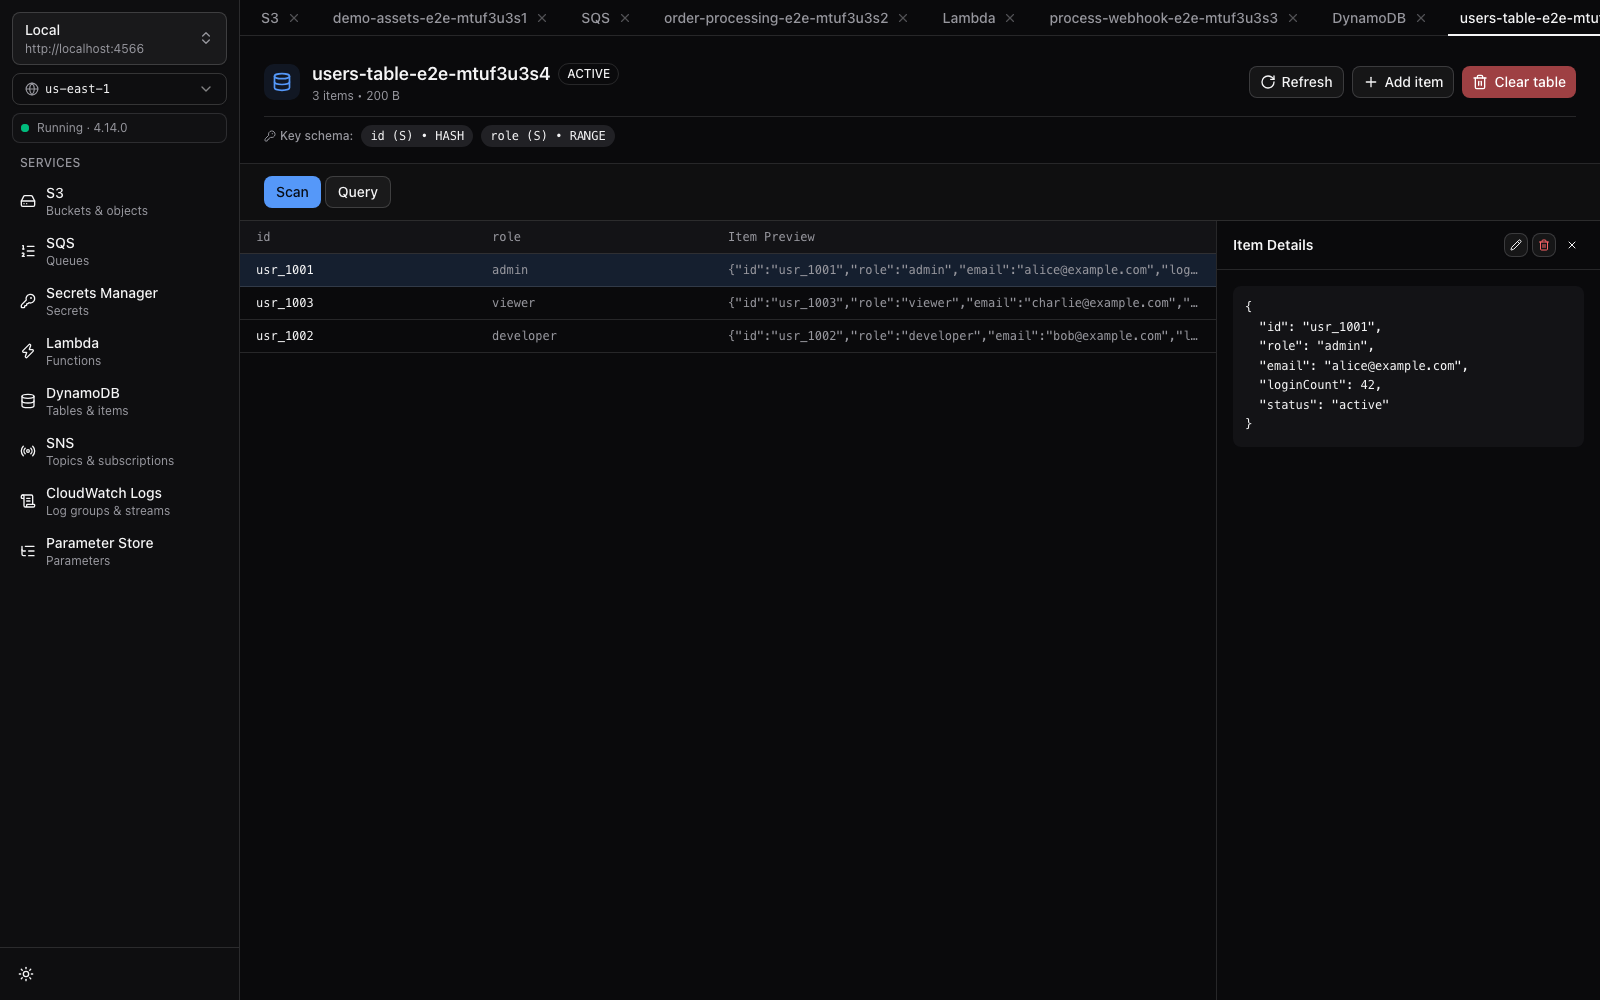
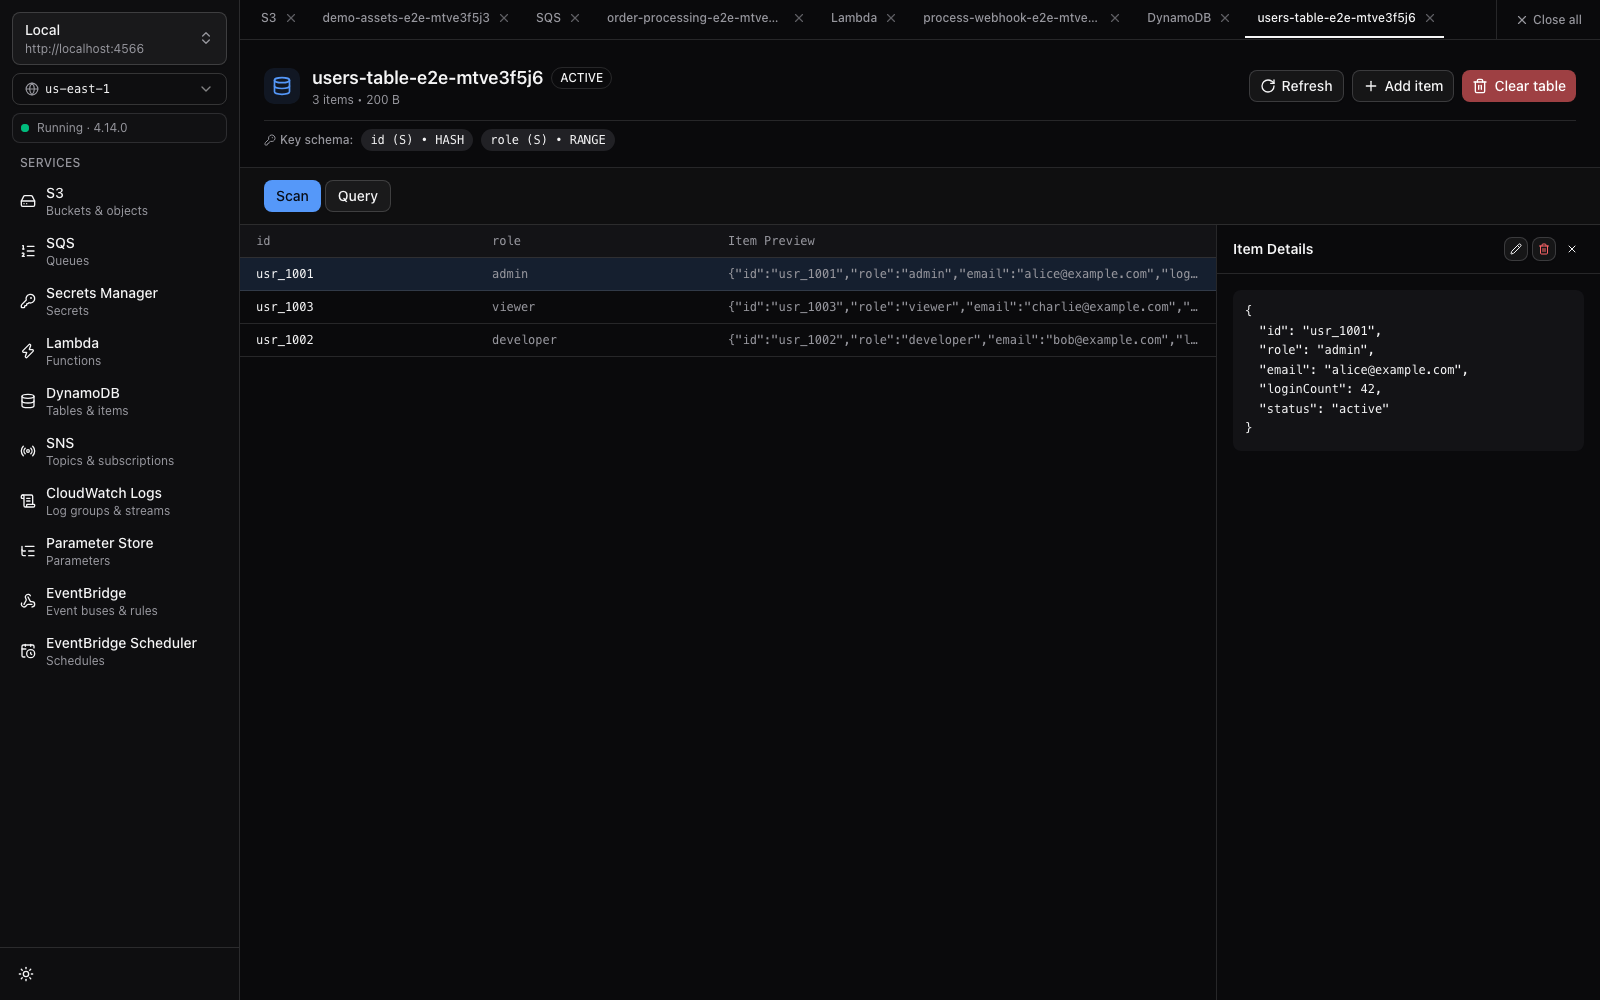
docs: mark M7 shipped with screenshots
- e2e/screenshots.spec.ts: capture eventbridge-bus.png (rules table + targets)
  and scheduler-schedules.png (schedules table + community note).
- README.md: add EventBridge and EventBridge Scheduler to Features table,
  embed both screenshots, and mark M7 Done in Roadmap.
- docs/plan.md: mark milestone M7 as Shipped, update contract table, and
  move eventBus and scheduleGroup tab kinds to Shipped.
- docs/decisions.md: append D17 documenting GetSchedule fan-out, failed entry
  error propagation, community execution note, and shared TargetPicker.

diff --git a/e2e/screenshots.spec.ts b/e2e/screenshots.spec.ts
@@ -39,13 +39,33 @@ import {
   PutParameterCommand,
   DeleteParameterCommand,
 } from "@aws-sdk/client-ssm";
+import {
+  CreateEventBusCommand,
+  PutRuleCommand,
+  PutTargetsCommand,
+  DeleteEventBusCommand,
+  DeleteRuleCommand,
+  RemoveTargetsCommand,
+} from "@aws-sdk/client-eventbridge";
+import {
+  CreateScheduleGroupCommand,
+  CreateScheduleCommand,
+  DeleteScheduleGroupCommand,
+  DeleteScheduleCommand,
+} from "@aws-sdk/client-scheduler";
+import { GetQueueAttributesCommand } from "@aws-sdk/client-sqs";
 import { zipSync, strToU8 } from "fflate";
 import { requireLocalStack, makeClients, unique } from "./helpers";
 
 test.describe("@screenshot Capture screenshots", () => {
   test.use({ viewport: { width: 1600, height: 1000 } });
 
-  const { s3, sqs, lambda, dynamodb, dynamoDoc, sns, logs, ssm } = makeClients();
+  const { s3, sqs, lambda, dynamodb, dynamoDoc, sns, logs, ssm, eventbridge, scheduler } = makeClients();
+  const ebBusName = unique("orders-bus");
+  const ebRuleName = "order-placed-rule";
+  const schedGroupName = unique("ecommerce-schedules");
+  const schedName1 = "nightly-report";
+  const schedName2 = "heartbeat-ping";
   const bucketName = unique("demo-assets");
   const queueName = unique("order-processing");
   const functionName = unique("process-webhook");
@@ -253,6 +273,72 @@ test.describe("@screenshot Capture screenshots", () => {
         }),
       );
     }
+
+    // 8. Seed EventBridge bus, rule, and target
+    await eventbridge.send(new CreateEventBusCommand({ Name: ebBusName }));
+    await eventbridge.send(
+      new PutRuleCommand({
+        Name: ebRuleName,
+        EventBusName: ebBusName,
+        EventPattern: JSON.stringify({ source: ["store.orders"], "detail-type": ["order.placed"] }),
+        State: "ENABLED",
+        Description: "Route completed orders to fulfillment queue",
+      }),
+    );
+
+    const queueAttrs = await sqs.send(
+      new GetQueueAttributesCommand({
+        QueueUrl: (await sqs.send(new GetQueueUrlCommand({ QueueName: queueName }))).QueueUrl!,
+        AttributeNames: ["QueueArn"],
+      }),
+    );
+    const targetArn = queueAttrs.Attributes!.QueueArn!;
+
+    await eventbridge.send(
+      new PutTargetsCommand({
+        Rule: ebRuleName,
+        EventBusName: ebBusName,
+        Targets: [
+          {
+            Id: "target-sqs-orders",
+            Arn: targetArn,
+            Input: JSON.stringify({ injected: "meta" }),
+          },
+        ],
+      }),
+    );
+
+    // 9. Seed Scheduler group and schedules
+    await scheduler.send(
+      new CreateScheduleGroupCommand({ Name: schedGroupName }),
+    );
+    await scheduler.send(
+      new CreateScheduleCommand({
+        Name: schedName1,
+        GroupName: schedGroupName,
+        ScheduleExpression: "cron(0 2 * * ? *)",
+        FlexibleTimeWindow: { Mode: "OFF" },
+        Target: {
+          Arn: targetArn,
+          RoleArn: "arn:aws:iam::000000000000:role/localstacker-scheduler",
+          Input: JSON.stringify({ report: "nightly-revenue", format: "pdf" }),
+        },
+        State: "ENABLED",
+      }),
+    );
+    await scheduler.send(
+      new CreateScheduleCommand({
+        Name: schedName2,
+        GroupName: schedGroupName,
+        ScheduleExpression: "rate(5 minutes)",
+        FlexibleTimeWindow: { Mode: "OFF" },
+        Target: {
+          Arn: targetArn,
+          RoleArn: "arn:aws:iam::000000000000:role/localstacker-scheduler",
+        },
+        State: "DISABLED",
+      }),
+    );
   });
 
   test.afterAll(async () => {
@@ -326,10 +412,44 @@ test.describe("@screenshot Capture screenshots", () => {
         console.warn("SSM cleanup error:", err);
       }
     }
+
+    // Cleanup EventBridge
+    try {
+      await eventbridge.send(
+        new RemoveTargetsCommand({
+          Rule: ebRuleName,
+          EventBusName: ebBusName,
+          Ids: ["target-sqs-orders"],
+        }),
+      ).catch(() => {});
+      await eventbridge.send(
+        new DeleteRuleCommand({ Name: ebRuleName, EventBusName: ebBusName }),
+      ).catch(() => {});
+      await eventbridge.send(
+        new DeleteEventBusCommand({ Name: ebBusName }),
+      ).catch(() => {});
+    } catch (err) {
+      console.warn("EventBridge cleanup error:", err);
+    }
+
+    // Cleanup Scheduler
+    try {
+      await scheduler.send(
+        new DeleteScheduleCommand({ Name: schedName1, GroupName: schedGroupName }),
+      ).catch(() => {});
+      await scheduler.send(
+        new DeleteScheduleCommand({ Name: schedName2, GroupName: schedGroupName }),
+      ).catch(() => {});
+      await scheduler.send(
+        new DeleteScheduleGroupCommand({ Name: schedGroupName }),
+      ).catch(() => {});
+    } catch (err) {
+      console.warn("Scheduler cleanup error:", err);
+    }
   });
 
   test("captures full application screenshots", async ({ page }) => {
-    test.setTimeout(90_000);
+    test.setTimeout(120_000);
     await page.goto("/");
     await page.locator("aside").getByRole("button", { name: /S3/ }).click();
     const bucketRow = page.getByText(bucketName, { exact: true });
@@ -422,5 +542,26 @@ test.describe("@screenshot Capture screenshots", () => {
     await page.getByRole("button", { name: "Hierarchy" }).click();
     await expect(page.getByText("production")).toBeVisible({ timeout: 5_000 });
     await page.screenshot({ path: "docs/screenshots/ssm-params.png", animations: "disabled" });
+
+    // 8. EventBridge bus view screenshot (rules + selected rule targets)
+    await page.locator("aside").getByRole("button", { name: /^EventBridge Event buses/ }).click();
+    const busRow = page.getByText(ebBusName, { exact: true });
+    await expect(busRow).toBeVisible({ timeout: 15_000 });
+    await busRow.click();
+    await expect(page.locator("table").getByText(ebRuleName, { exact: true })).toBeVisible({ timeout: 10_000 });
+    await expect(page.getByText("target-sqs-orders")).toBeVisible({ timeout: 10_000 });
+    await page.screenshot({ path: "docs/screenshots/eventbridge-bus.png", animations: "disabled" });
+
+    // 9. EventBridge Scheduler group view screenshot (schedules table + community note)
+    await page.locator("aside").getByRole("button", { name: /^EventBridge Scheduler/ }).click();
+    const groupRow = page.getByText(schedGroupName, { exact: true });
+    await expect(groupRow).toBeVisible({ timeout: 15_000 });
+    await groupRow.click();
+    await expect(page.getByText(schedName1, { exact: true })).toBeVisible({ timeout: 10_000 });
+    await expect(page.getByText(schedName2, { exact: true })).toBeVisible({ timeout: 10_000 });
+    await expect(
+      page.getByText(/LocalStack community stores schedules but does not execute them/),
+    ).toBeVisible();
+    await page.screenshot({ path: "docs/screenshots/scheduler-schedules.png", animations: "disabled" });
   });
 });

diff --git a/docs/plan.md b/docs/plan.md
@@ -77,8 +77,8 @@ Notes:
 | **SNS** | M5 (Shipped ✅) | Topics list (standard & FIFO); attributes; subscriptions list (protocol, endpoint, status) | Create/delete topic; publish message (payload + JSON attributes); subscribe SQS queue helper | Delivery retry policies; SMS sandbox management; data protection policies |
 | **CloudWatch Logs** | M6 (Shipped ✅) | Log groups; log streams (sorted by event time); virtualized log viewer with live tailing & search filter | Create/delete log group; delete stream; deep-link from Lambda FunctionView | Metric filters; subscription filters; CloudWatch metrics/alarms |
 | **SSM Parameter Store** | M6 (Shipped ✅) | Parameters (path hierarchy & flat views); type badges (`String`, `StringList`, `SecureString`); decrypted value toggle | Create/update parameter; delete parameter; decrypt `SecureString` using local KMS | Parameter tier editing; advanced policies; history diffing |
-| **EventBridge** | M7 | Event buses list (default & custom); rules list per bus (status, schedule/pattern); targets list per rule (target type, ARN, input transformer) | Create/delete event bus; create/edit/delete rule (event pattern JSON editor); add/remove targets; **PutEvents test publisher modal** (DetailType, Source, Detail JSON) | Archive & Replay; Schema Registry; Partner Event Sources; CloudWatch Alarms / cross-region replication |
-| **EventBridge Scheduler** | M7 | Schedule groups; schedules list (state `ENABLED`/`DISABLED`, expression: rate/cron/at, target ARN, time window) | Create/delete schedule (name, group, cron/rate expression, payload JSON, target ARN); enable/disable toggle | Complex retry policies with DLQ routing; cross-account IAM role assumptions |
+| **EventBridge** | M7 (Shipped ✅) | Event buses list (default & custom); rules list per bus (status, schedule/pattern); targets list per rule (target type, ARN, input transformer) | Create/delete event bus; create/edit/delete rule (event pattern JSON editor); add/remove targets; **PutEvents test publisher modal** (DetailType, Source, Detail JSON) | Archive & Replay; Schema Registry; Partner Event Sources; CloudWatch Alarms / cross-region replication |
+| **EventBridge Scheduler** | M7 (Shipped ✅) | Schedule groups; schedules list (state `ENABLED`/`DISABLED`, expression: rate/cron/at, target ARN, time window) | Create/delete schedule (name, group, cron/rate expression, payload JSON, target ARN); enable/disable toggle | Complex retry policies with DLQ routing; cross-account IAM role assumptions |
 | **API Gateway REST API** | M8 | REST APIs list; resource tree hierarchy (`/`, `/{proxy+}`); method inspector (verb, auth, integration: Lambda/Mock/HTTP); stages list with deployment history and direct URL | Create/delete REST API; create resource and method; deploy API to stage; **Built-in Method Test Runner** (path/query params, headers, body → invoke against LocalStack → display status, latency, headers, body, logs) | WebSocket APIs; HTTP APIs v2 (REST only in this slice); Authorizer creation wizards; VPC Links; Usage Plans / API Keys |
 | **SES** | M8 | Verified email addresses and domain identities; **LocalStack Captured Mailbox** (`GET /_localstack/ses`): sent email list with timestamp, sender, recipients, subject, tabbed HTML preview, plaintext preview, raw MIME headers, attachments | Verify email/domain identity; delete identity; **Send test email modal** (To, From, Subject, Text/HTML body) with instant capture into Mailbox | DKIM signing configuration; configuration sets; dedicated IP pools; custom verification email templates |
 | **IAM** | M9 | Roles list; policies list (AWS managed + customer inline/managed); users list. Role detail: Trust relationship policy doc, attached policies, inline policies with syntax-highlighted JSON viewer. User detail: attached policies, access keys list | Create/delete role; create/update/delete inline role policy; create/delete user; create/deactivate/delete access key; copy ARN / Access Key ID | SAML/OIDC identity providers; Permission Boundaries; Access Analyzer; credential report generation; complex MFA |
@@ -94,8 +94,8 @@ Notes:
   - **Security & Configuration**: IAM, Secrets Manager, SSM Parameter Store
   - **Observability & DNS**: CloudWatch Logs, Route53
 - Resources open as **tabs** in the main area:
-  - Shipped: `bucket`, `queue`, `secret`, `function`, `table`, `topic`, `logGroup`, `parameter`.
-  - M7–M10: `eventBus`, `scheduleGroup`, `restApi`, `sesIdentity`, `sesMailbox`, `iamRole`, `iamPolicy`, `iamUser`, `hostedZone`, `securityGroup`, `ec2Instance`.
+  - Shipped: `bucket`, `queue`, `secret`, `function`, `table`, `topic`, `logGroup`, `parameter`, `eventBus`, `scheduleGroup`.
+  - M8–M10: `restApi`, `sesIdentity`, `sesMailbox`, `iamRole`, `iamPolicy`, `iamUser`, `hostedZone`, `securityGroup`, `ec2Instance`.
 - **Cmd-K** quick-jump palette to open any resource by name (additive, not primary).
 ## Quality & release engineering
 
@@ -136,7 +136,7 @@ Notes:
     virtualized live log tailing with search filter, deep link from Lambda function view.
   - SSM Parameter Store: `@aws-sdk/client-ssm`, path hierarchy browser,
     parameter editing, local KMS `SecureString` decryption.
-- **M7 — EventBridge & EventBridge Scheduler (Event-Driven Messaging & Schedules)**:
+- **M7 — EventBridge & EventBridge Scheduler (Event-Driven Messaging & Schedules)** (Shipped ✅):
   - EventBridge: `@aws-sdk/client-eventbridge`, bus listing (default/custom), create/delete bus, rules explorer with event pattern JSON viewer, targets list (Lambda, SQS, SNS), rule toggle, PutEvents test event publisher modal.
   - EventBridge Scheduler: `@aws-sdk/client-scheduler`, schedule group explorer, schedule listing (rate/cron/at), create/delete schedule, enable/disable toggle, payload inspector.
   - E2E Playwright test: create bus, create rule with SQS target, publish event via PutEvents modal, assert message received on target queue with matched detail.

diff --git a/README.md b/README.md
@@ -41,6 +41,8 @@ LocalStacker includes a built-in auto-updater that notifies you when a new relea
 | **SNS** | Topics list (standard & FIFO), attributes, subscriptions list, publish message (payload + attributes), subscribe SQS queue helper |
 | **CloudWatch Logs** | Log groups & streams exploration, virtualized log viewer with live tailing & search filter, deep-link from Lambda function view |
 | **SSM Parameter Store** | Parameters in path hierarchy and flat views, type badges (`String`, `StringList`, `SecureString`), decrypted value toggle, create/update/delete |
+| **EventBridge** | Event buses (default & custom), rules explorer with event pattern viewer/editor, target management (Lambda, SQS, SNS), rule enable/disable, PutEvents test event publisher |
+| **EventBridge Scheduler** | Schedule groups, schedules list (rate/cron/at) with enable/disable toggles, create/delete schedules, target & payload inspector |
 
 ### S3 Object Preview
 ![S3 Object Preview](docs/screenshots/s3-bucket.png)
@@ -60,6 +62,12 @@ LocalStacker includes a built-in auto-updater that notifies you when a new relea
 ### SSM Parameter Store Hierarchy
 ![SSM Parameter Store](docs/screenshots/ssm-params.png)
 
+### EventBridge Buses & Rules
+![EventBridge Buses & Rules](docs/screenshots/eventbridge-bus.png)
+
+### EventBridge Scheduler
+![EventBridge Scheduler](docs/screenshots/scheduler-schedules.png)
+
 ## Status & Roadmap
 
 **v1.0.0 shipped** ✅. Core milestones implemented and verified with end-to-end coverage:
@@ -73,7 +81,7 @@ LocalStacker includes a built-in auto-updater that notifies you when a new relea
 | **M4** | Hardening — Playwright e2e suite, release engineering, auto-updater, v1.0.0 | ✅ Done |
 | **M5** | **DynamoDB & SNS** — table inspector, scan/query, document editor; topic pub/sub & SQS subscription helper | ✅ Done |
 | **M6** | **CloudWatch Logs & SSM Parameter Store** — log groups/streams viewer, live tailing, parameter hierarchy & SecureString decryption | ✅ Done |
-| **M7** | **EventBridge & EventBridge Scheduler** — event buses/rules, PutEvents test publisher, schedules explorer | 📋 Planned |
+| **M7** | **EventBridge & EventBridge Scheduler** — event buses/rules, PutEvents test publisher, schedules explorer | ✅ Done |
 | **M8** | **API Gateway REST API & SES** — resource tree, method test runner, verified identities & captured mailbox viewer | 📋 Planned |
 | **M9** | **IAM & Route53** — role/policy inspector, access keys, hosted zones & DNS records grid | 📋 Planned |
 | **M10** | **EC2 Mock** — instance states, security groups rule matrix, key pairs | 📋 Planned |
